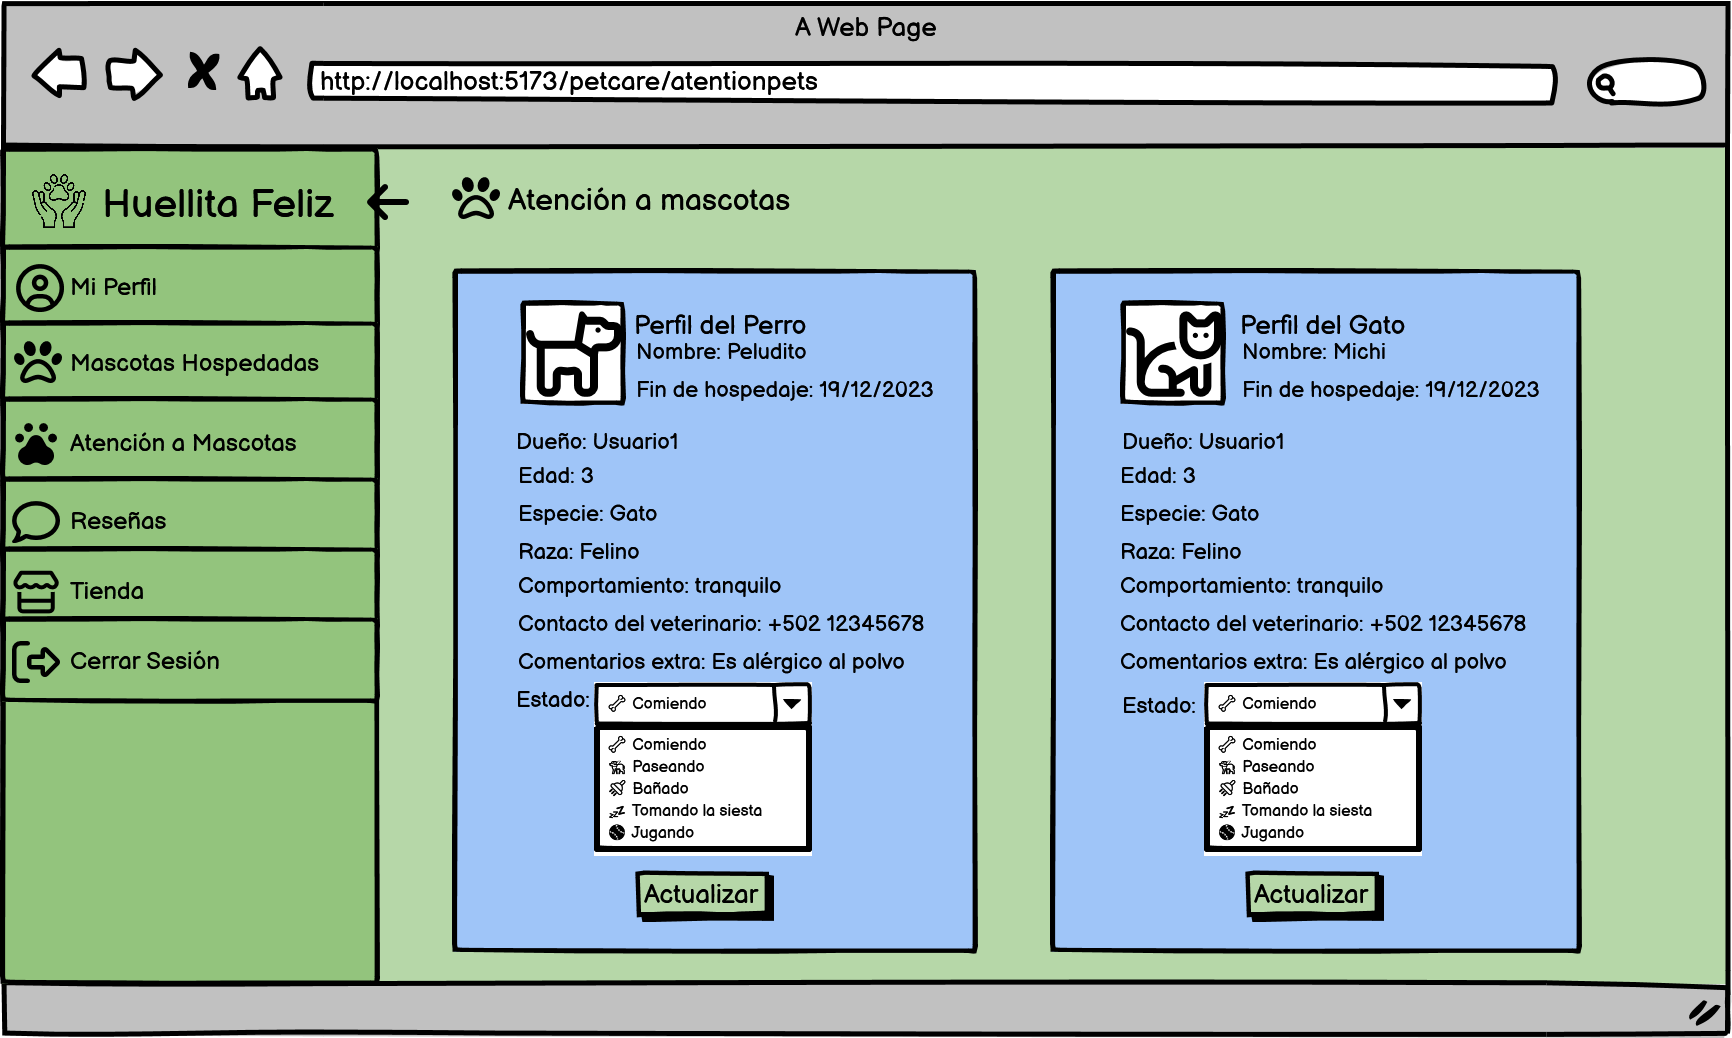
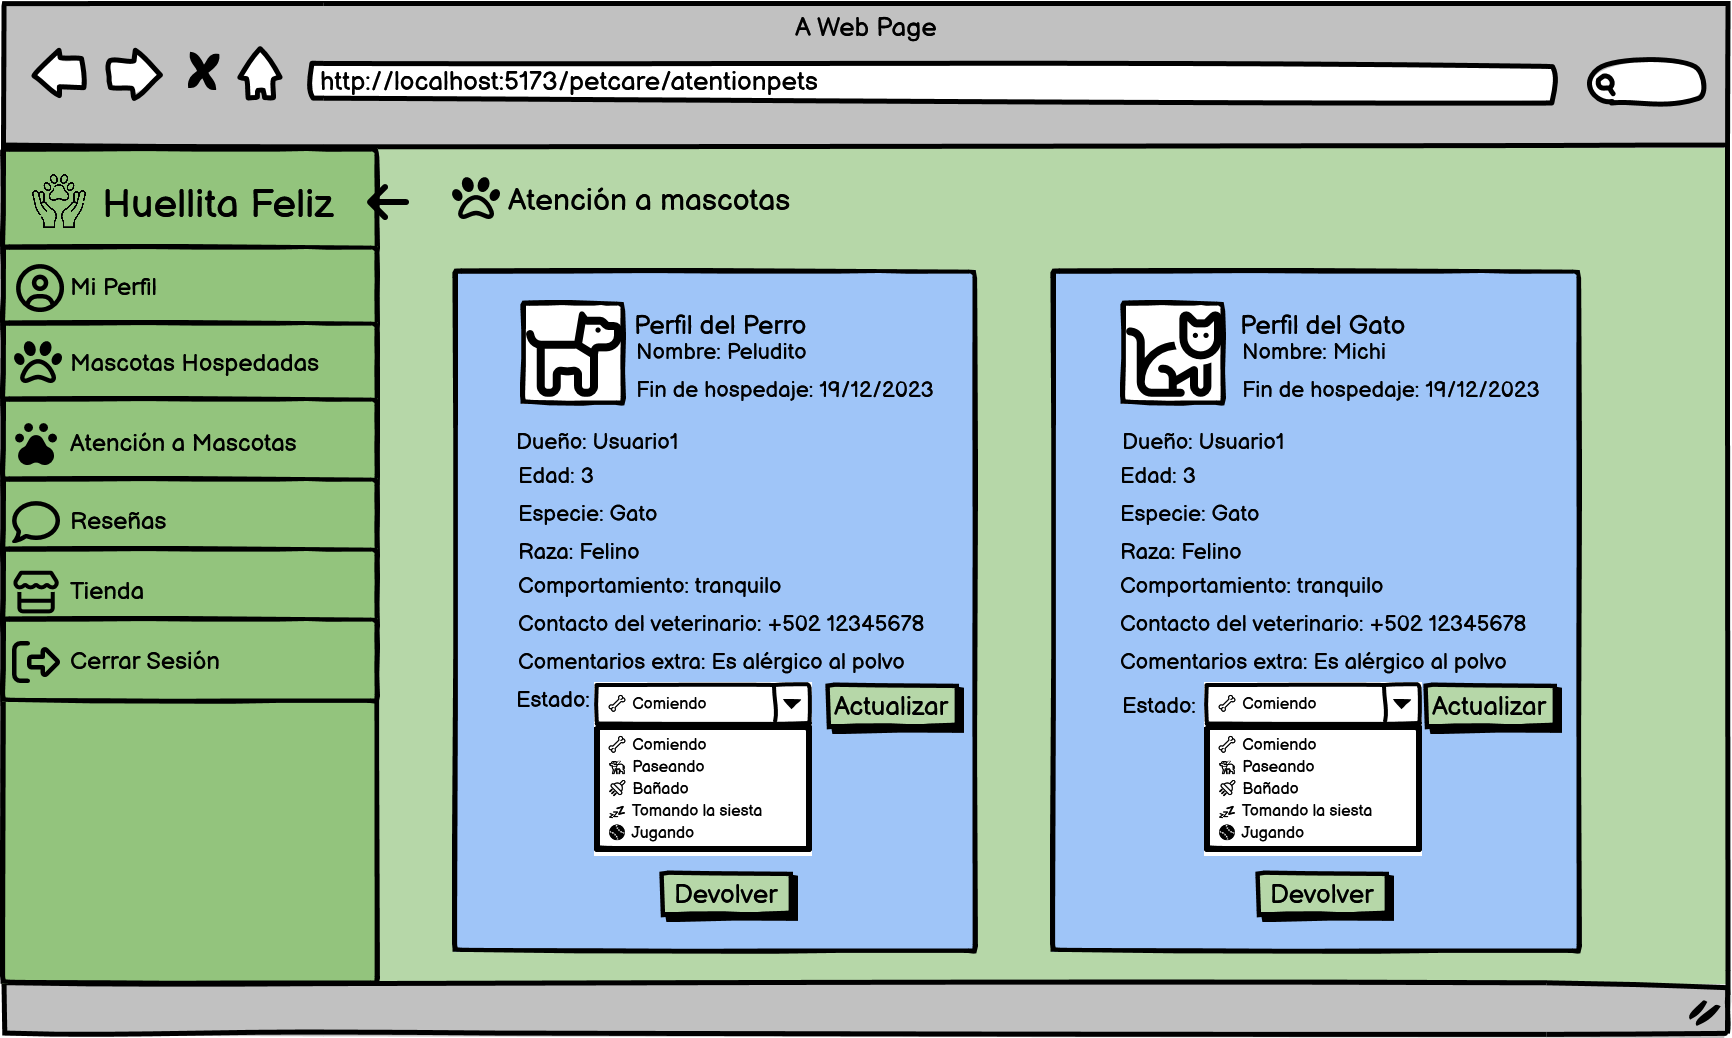
Fin Atender Mascota Fase 1

diff --git a/Frontend/src/pages/AtenderMascota/AtenderMascota.jsx b/Frontend/src/pages/AtenderMascota/AtenderMascota.jsx
@@ -1,16 +1,227 @@
-import React from 'react';
+import React, { useEffect, useState } from 'react';
+import toast, { Toaster } from "react-hot-toast";
+import { FaBirthdayCake, FaCat, FaDog } from "react-icons/fa";
+import { FaUserDoctor } from "react-icons/fa6";
+import { FiMessageCircle } from "react-icons/fi";
+import { RiEmotionHappyLine } from "react-icons/ri";
 import { SiDatadog } from "react-icons/si";
+import { useNavigate } from 'react-router-dom';
+import Service from '../../Service/Service';
 import SidebarCuidador from '../../components/Sidebar/SidebarCuidador';
+import { useUser } from "../../userCtx/User";
 const AtenderMascota = () => {
+    const [mascotas, setMascotas] = useState([]);
+    const { logged, setLogged } = useUser();
+    const [estado, setEstado] = useState("🦴 Comiendo");
+    const navigate = useNavigate();
+    useEffect(() => {
+        if(!logged){
+            navigate("/")
+        }
+        const user = JSON.parse(localStorage.getItem("data_user"));
+        Service.getPetsAttended(user.id)
+        .then((res) => {
+            console.log(res.data.data);
+            setMascotas(res.data.data);
+        })
+        .catch((err) => {
+            console.log(err);
+        });
+    }, []);
+
+    const handleSelect = (e) => {
+        setEstado(e.target.value);
+    }
+
+    const handleCambiarEstado = (id) => {
+        const data = {
+            id_pet: id,
+            estado: estado
+        }
+        console.log(data);
+        Service.updateStatus(data)
+        .then((res) => {
+            console.log(res.data);
+            window.location.reload();
+        })
+        .catch((err) => {
+            console.log(err);
+        });
+    }
+
+    const handleProximamente = () => {
+        toast("Proximamente obtendrás esta funcionalidad!", {
+            icon: '😅',
+            position: "bottom-right",
+            autoClose: 5000,
+            hideProgressBar: false,
+            closeOnClick: true,
+            pauseOnHover: true,
+            draggable: true,
+        });
+    }
+
     return (
         <div className="flex bg-gradient-to-tr bg-verde3/70">
+            <Toaster />
             <SidebarCuidador/>
             <div className="p-7 text-2xl font-semibold flex-1 h-screen overflow-y-scroll scrollbar-hide  border-l-2 border-white">
                 <div className="pb-4">
                     <h1 className="text-black text-3xl">
                     <SiDatadog className="text-4xl inline-block mr-2" />
-                    Atender Mascota
+                    Atención a Mascotas
                     </h1>
+                </div>
+                <div className="grid grid-cols-2 h-screen">
+                    {mascotas.map((mascota) => (
+                    mascota.especie.toLowerCase() === "perro"?(<div className="col-span-1 p-8">
+                        <div className="border-2 p-4 h-full bg-azul4 rounded-xl shadow-lg">
+                            <div class="flex flex-col items-center pb-10">
+                                <img class="w-24 h-24 mb-3" src="https://i.pinimg.com/originals/72/ef/b6/72efb6fe3a22146a7b2d26aff93cc55a.png" alt="Dog image"/>
+                                <h5 class="mb-1 text-2xl font-medium text-gray-900 dark:text-white">{mascota.nombre}</h5>
+                                <span class="text-lg text-black dark:text-black"><span className='font-bold'>Fin de Hospedaje: </span>{mascota.fecha_devolucion}</span>
+                            </div>
+                            <div>
+                                <div class="p-4 md:p-5">
+                                    <ol class="relative border-s border-verde1  ms-3.5 mb-4 md:mb-5">                  
+                                        <li class="mb-10 ms-8">            
+                                            <span class="absolute flex items-center justify-center w-6 h-6 bg-gray-100 rounded-full -start-3.5 ring-8 ring-verde1 dark:ring-verde3 dark:bg-verde1">
+                                                <FaBirthdayCake class="w-2.5 h-2.5 text-verde3 "/>
+                                            </span>
+                                            <h3 class="flex items-start mb-1 text-lg font-semibold text-gray-900 dark:text-white">Edad:&nbsp; <span className='font-normal'>{mascota.edad}</span></h3>
+                                        </li>
+                                        <li class="mb-10 ms-8">            
+                                            <span class="absolute flex items-center justify-center w-6 h-6 bg-gray-100 rounded-full -start-3.5 ring-8 ring-verde1 dark:ring-verde3 dark:bg-verde1">
+                                                <FaDog class="w-3.5 h-3.5 text-verde3 "/>
+                                            </span>
+                                            <h3 class="flex items-start mb-1 text-lg font-semibold text-gray-900 dark:text-white">Raza:&nbsp; <span className='font-normal'>{mascota.especie}</span></h3>
+                                        </li>
+                                        <li class="mb-10 ms-8">            
+                                            <span class="absolute flex items-center justify-center w-6 h-6 bg-gray-100 rounded-full -start-3.5 ring-8 ring-verde1 dark:ring-verde3 dark:bg-verde1">
+                                                <RiEmotionHappyLine class="w-3.5 h-3.5 text-verde3 "/>
+                                            </span>
+                                            <h3 class="flex items-start mb-1 text-lg font-semibold text-gray-900 dark:text-white">Comportamiento:&nbsp; <span className='font-normal'>{mascota.comportamiento}</span></h3>
+                                        </li>
+                                        <li class="mb-10 ms-8">            
+                                            <span class="absolute flex items-center justify-center w-6 h-6 bg-gray-100 rounded-full -start-3.5 ring-8 ring-verde1 dark:ring-verde3 dark:bg-verde1">
+                                                <FaUserDoctor class="w-3.5 h-3.5 text-verde3 "/>
+                                            </span>
+                                            <h3 class="flex items-start mb-1 text-lg font-semibold text-gray-900 dark:text-white">Contacto del Veterinario:&nbsp; <span className='font-normal'>{mascota.contacto_veterinario}</span></h3>
+                                        </li>
+                                        <li class="mb-10 ms-8">
+                                            <span class="absolute flex items-center justify-center w-6 h-6 bg-gray-100 rounded-full -start-3.5 ring-8 ring-verde1 dark:ring-verde3 dark:bg-verde1">
+                                            <FiMessageCircle class="w-3.5 h-3.5 text-verde3 "/>
+                                            </span>
+                                            <h3 class="mb-1 text-lg font-semibold text-gray-900 dark:text-white">Comentarios extra:</h3>
+                                            <p class="block mb-3 text-base font-normal leading-none text-white">{mascota.comentarios_extra}</p>
+                                        </li>
+                                        <li class="mb-10 ms-8">
+                                            <span class="absolute flex items-center justify-center w-6 h-6 bg-gray-100 rounded-full -start-3.5 ring-8 ring-verde1 dark:ring-verde3 dark:bg-verde1">
+                                                <svg class="w-2.5 h-2.5 text-gray-500 dark:text-gray-400" aria-hidden="true" xmlns="http://www.w3.org/2000/svg" fill="none" viewBox="0 0 20 20"><path fill="currentColor" d="M6 1a1 1 0 0 0-2 0h2ZM4 4a1 1 0 0 0 2 0H4Zm7-3a1 1 0 1 0-2 0h2ZM9 4a1 1 0 1 0 2 0H9Zm7-3a1 1 0 1 0-2 0h2Zm-2 3a1 1 0 1 0 2 0h-2ZM1 6a1 1 0 0 0 0 2V6Zm18 2a1 1 0 1 0 0-2v2ZM5 11v-1H4v1h1Zm0 .01H4v1h1v-1Zm.01 0v1h1v-1h-1Zm0-.01h1v-1h-1v1ZM10 11v-1H9v1h1Zm0 .01H9v1h1v-1Zm.01 0v1h1v-1h-1Zm0-.01h1v-1h-1v1ZM10 15v-1H9v1h1Zm0 .01H9v1h1v-1Zm.01 0v1h1v-1h-1Zm0-.01h1v-1h-1v1ZM15 15v-1h-1v1h1Zm0 .01h-1v1h1v-1Zm.01 0v1h1v-1h-1Zm0-.01h1v-1h-1v1ZM15 11v-1h-1v1h1Zm0 .01h-1v1h1v-1Zm.01 0v1h1v-1h-1Zm0-.01h1v-1h-1v1ZM5 15v-1H4v1h1Zm0 .01H4v1h1v-1Zm.01 0v1h1v-1h-1Zm0-.01h1v-1h-1v1ZM2 4h16V2H2v2Zm16 0h2a2 2 0 0 0-2-2v2Zm0 0v14h2V4h-2Zm0 14v2a2 2 0 0 0 2-2h-2Zm0 0H2v2h16v-2ZM2 18H0a2 2 0 0 0 2 2v-2Zm0 0V4H0v14h2ZM2 4V2a2 2 0 0 0-2 2h2Zm2-3v3h2V1H4Zm5 0v3h2V1H9Zm5 0v3h2V1h-2ZM1 8h18V6H1v2Zm3 3v.01h2V11H4Zm1 1.01h.01v-2H5v2Zm1.01-1V11h-2v.01h2Zm-1-1.01H5v2h.01v-2ZM9 11v.01h2V11H9Zm1 1.01h.01v-2H10v2Zm1.01-1V11h-2v.01h2Zm-1-1.01H10v2h.01v-2ZM9 15v.01h2V15H9Zm1 1.01h.01v-2H10v2Zm1.01-1V15h-2v.01h2Zm-1-1.01H10v2h.01v-2ZM14 15v.01h2V15h-2Zm1 1.01h.01v-2H15v2Zm1.01-1V15h-2v.01h2Zm-1-1.01H15v2h.01v-2ZM14 11v.01h2V11h-2Zm1 1.01h.01v-2H15v2Zm1.01-1V11h-2v.01h2Zm-1-1.01H15v2h.01v-2ZM4 15v.01h2V15H4Zm1 1.01h.01v-2H5v2Zm1.01-1V15h-2v.01h2Zm-1-1.01H5v2h.01v-2Z"/></svg>
+                                            </span>
+                                            <h3 class="mb-1 text-lg font-semibold text-gray-900 dark:text-white">Estado de la mascota:&nbsp; <span className={mascota.estado?'font-normal':'hidden'}>{mascota.estado}</span></h3>
+                                            <div class="flex items-center">
+                                                <form class="max-w-sm mb-2 mr-2">
+                                                    <select id="countries" class="bg-white border border-gray-300 text-black text-sm rounded-lg focus:ring-verde3 focus:border-verde3 block w-full p-2.5 " onChange={handleSelect}>
+                                                        <option value="🦴 Comiendo">🦴 Comiendo</option>
+                                                        <option value="🦮 Paseando">🦮 Paseando</option>
+                                                        <option value="🚿 Bañado">🚿 Bañado</option>
+                                                        <option value="💤 Tomando la siesta">💤 Tomando la siesta</option>
+                                                        <option value="🥎 Jugando">🥎 Jugando</option>
+                                                    </select>
+                                                </form>
+                                                <button type="button" class="inline-flex items-center py-2 px-3 text-sm font-medium text-white focus:outline-none bg-verde3 rounded-lg border border-verde5 hover:bg-verde5 hover:text-white " onClick={() => handleCambiarEstado(mascota._id)}>
+                                                    Actualizar Estado
+                                                </button>
+                                            </div>
+                                        </li>
+                                    </ol>
+                                    <div>
+                                        {/*<h2 className='flex items-center justify-center mb-2 text-white'>Llegó el día del fin del hospedaje!</h2>
+                                        <p className='flex items-center justify-center mb-2 text-white text-base font-normal'>Tienes que devolver a la mascota, pasada la fecha se hará automáticamente</p>*/}
+                                        <button class="text-white inline-flex w-full justify-center bg-verde6 hover:bg-verde5 focus:ring-4 focus:outline-none focus:ring-blue-300 font-medium rounded-lg text-sm px-5 py-2.5 text-center" onClick={handleProximamente}>
+                                        Devolver Mascota
+                                        </button>
+                                    </div>
+                                </div>
+                            </div>
+                        </div>
+                    </div>)
+                    :
+                    (<div className="col-span-1 p-8">
+                        <div className="border-2 p-4 h-full bg-azul4 rounded-xl shadow-lg">
+                            <div class="flex flex-col items-center pb-10">
+                                <img class="w-24 h-24 mb-3" src="https://i.pinimg.com/originals/b0/8a/66/b08a66bd6a5d35b3d9a1bc11ebbcca83.png" alt="Cat image"/>
+                                <h5 class="mb-1 text-2xl font-medium text-gray-900 dark:text-white">{mascota.nombre}</h5>
+                                <span class="text-lg text-black dark:text-black"><span className='font-bold'>Fin de Hospedaje: </span>{mascota.fecha_devolucion}</span>
+                            </div>
+                            <div>
+                                <div class="p-4 md:p-5">
+                                    <ol class="relative border-s border-verde1  ms-3.5 mb-4 md:mb-5">                  
+                                        <li class="mb-10 ms-8">            
+                                            <span class="absolute flex items-center justify-center w-6 h-6 bg-gray-100 rounded-full -start-3.5 ring-8 ring-verde1 dark:ring-verde3 dark:bg-verde1">
+                                                <FaBirthdayCake class="w-2.5 h-2.5 text-verde3 "/>
+                                            </span>
+                                            <h3 class="flex items-start mb-1 text-lg font-semibold text-gray-900 dark:text-white">Edad:&nbsp; <span className='font-normal'>{mascota.edad}</span></h3>
+                                        </li>
+                                        <li class="mb-10 ms-8">            
+                                            <span class="absolute flex items-center justify-center w-6 h-6 bg-gray-100 rounded-full -start-3.5 ring-8 ring-verde1 dark:ring-verde3 dark:bg-verde1">
+                                                <FaCat class="w-3.5 h-3.5 text-verde3 "/>
+                                            </span>
+                                            <h3 class="flex items-start mb-1 text-lg font-semibold text-gray-900 dark:text-white">Raza:&nbsp; <span className='font-normal'>{mascota.raza}</span></h3>
+                                        </li>
+                                        <li class="mb-10 ms-8">            
+                                            <span class="absolute flex items-center justify-center w-6 h-6 bg-gray-100 rounded-full -start-3.5 ring-8 ring-verde1 dark:ring-verde3 dark:bg-verde1">
+                                                <RiEmotionHappyLine class="w-3.5 h-3.5 text-verde3 "/>
+                                            </span>
+                                            <h3 class="flex items-start mb-1 text-lg font-semibold text-gray-900 dark:text-white">Comportamiento:&nbsp; <span className='font-normal'>{mascota.comportamiento}</span></h3>
+                                        </li>
+                                        <li class="mb-10 ms-8">            
+                                            <span class="absolute flex items-center justify-center w-6 h-6 bg-gray-100 rounded-full -start-3.5 ring-8 ring-verde1 dark:ring-verde3 dark:bg-verde1">
+                                                <FaUserDoctor class="w-3.5 h-3.5 text-verde3 "/>
+                                            </span>
+                                            <h3 class="flex items-start mb-1 text-lg font-semibold text-gray-900 dark:text-white">Contacto del Veterinario:&nbsp; <span className='font-normal'>{mascota.contacto_veterinario}</span></h3>
+                                        </li>
+                                        <li class="mb-10 ms-8">
+                                            <span class="absolute flex items-center justify-center w-6 h-6 bg-gray-100 rounded-full -start-3.5 ring-8 ring-verde1 dark:ring-verde3 dark:bg-verde1">
+                                            <FiMessageCircle class="w-3.5 h-3.5 text-verde3 "/>
+                                            </span>
+                                            <h3 class="mb-1 text-lg font-semibold text-gray-900 dark:text-white">Comentarios extra:</h3>
+                                            <p class="block mb-3 text-base font-normal leading-none text-white">{mascota.comentarios_extra}</p>
+                                        </li>
+                                        <li class="mb-10 ms-8">
+                                            <span class="absolute flex items-center justify-center w-6 h-6 bg-gray-100 rounded-full -start-3.5 ring-8 ring-verde1 dark:ring-verde3 dark:bg-verde1">
+                                                <svg class="w-2.5 h-2.5 text-gray-500 dark:text-gray-400" aria-hidden="true" xmlns="http://www.w3.org/2000/svg" fill="none" viewBox="0 0 20 20"><path fill="currentColor" d="M6 1a1 1 0 0 0-2 0h2ZM4 4a1 1 0 0 0 2 0H4Zm7-3a1 1 0 1 0-2 0h2ZM9 4a1 1 0 1 0 2 0H9Zm7-3a1 1 0 1 0-2 0h2Zm-2 3a1 1 0 1 0 2 0h-2ZM1 6a1 1 0 0 0 0 2V6Zm18 2a1 1 0 1 0 0-2v2ZM5 11v-1H4v1h1Zm0 .01H4v1h1v-1Zm.01 0v1h1v-1h-1Zm0-.01h1v-1h-1v1ZM10 11v-1H9v1h1Zm0 .01H9v1h1v-1Zm.01 0v1h1v-1h-1Zm0-.01h1v-1h-1v1ZM10 15v-1H9v1h1Zm0 .01H9v1h1v-1Zm.01 0v1h1v-1h-1Zm0-.01h1v-1h-1v1ZM15 15v-1h-1v1h1Zm0 .01h-1v1h1v-1Zm.01 0v1h1v-1h-1Zm0-.01h1v-1h-1v1ZM15 11v-1h-1v1h1Zm0 .01h-1v1h1v-1Zm.01 0v1h1v-1h-1Zm0-.01h1v-1h-1v1ZM5 15v-1H4v1h1Zm0 .01H4v1h1v-1Zm.01 0v1h1v-1h-1Zm0-.01h1v-1h-1v1ZM2 4h16V2H2v2Zm16 0h2a2 2 0 0 0-2-2v2Zm0 0v14h2V4h-2Zm0 14v2a2 2 0 0 0 2-2h-2Zm0 0H2v2h16v-2ZM2 18H0a2 2 0 0 0 2 2v-2Zm0 0V4H0v14h2ZM2 4V2a2 2 0 0 0-2 2h2Zm2-3v3h2V1H4Zm5 0v3h2V1H9Zm5 0v3h2V1h-2ZM1 8h18V6H1v2Zm3 3v.01h2V11H4Zm1 1.01h.01v-2H5v2Zm1.01-1V11h-2v.01h2Zm-1-1.01H5v2h.01v-2ZM9 11v.01h2V11H9Zm1 1.01h.01v-2H10v2Zm1.01-1V11h-2v.01h2Zm-1-1.01H10v2h.01v-2ZM9 15v.01h2V15H9Zm1 1.01h.01v-2H10v2Zm1.01-1V15h-2v.01h2Zm-1-1.01H10v2h.01v-2ZM14 15v.01h2V15h-2Zm1 1.01h.01v-2H15v2Zm1.01-1V15h-2v.01h2Zm-1-1.01H15v2h.01v-2ZM14 11v.01h2V11h-2Zm1 1.01h.01v-2H15v2Zm1.01-1V11h-2v.01h2Zm-1-1.01H15v2h.01v-2ZM4 15v.01h2V15H4Zm1 1.01h.01v-2H5v2Zm1.01-1V15h-2v.01h2Zm-1-1.01H5v2h.01v-2Z"/></svg>
+                                            </span>
+                                            <h3 class="mb-1 text-lg font-semibold text-gray-900 dark:text-white">Estado de la mascota: <span className={mascota.estado?'font-normal':'hidden'}>{mascota.estado}</span></h3>
+                                            <div class="flex items-center">
+                                                <form class="max-w-sm mb-2 mr-2">
+                                                    <select id="countries" class="bg-white border border-gray-300 text-black text-sm rounded-lg focus:ring-verde3 focus:border-verde3 block w-full p-2.5 " onChange={handleSelect}>
+                                                        <option value="🦴 Comiendo">🦴 Comiendo</option>
+                                                        <option value="🦮 Paseando">🦮 Paseando</option>
+                                                        <option value="🚿 Bañado">🚿 Bañado</option>
+                                                        <option value="💤 Tomando la siesta">💤 Tomando la siesta</option>
+                                                        <option value="🥎 Jugando">🥎 Jugando</option>
+                                                    </select>
+                                                </form>
+                                                <button type="button" class="inline-flex items-center py-2 px-3 text-sm font-medium text-white focus:outline-none bg-verde3 rounded-lg border border-verde5 hover:bg-verde5 hover:text-white " onClick={() => handleCambiarEstado(mascota._id)}>
+                                                    Actualizar Estado
+                                                </button>
+                                            </div>
+                                        </li>
+                                    </ol>
+                                    <div>
+                                    {/*<h2 className='flex items-center justify-center mb-2 text-white'>Llegó el día del fin del hospedaje!</h2>
+                                        <p className='flex items-center justify-center mb-2 text-white text-base font-normal'>Tienes que devolver a la mascota, pasada la fecha se hará automáticamente</p>*/}
+                                        <button class="text-white inline-flex w-full justify-center bg-verde6 hover:bg-verde5 focus:ring-4 focus:outline-none focus:ring-blue-300 font-medium rounded-lg text-sm px-5 py-2.5 text-center" onClick={handleProximamente}>
+                                        Devolver Mascota
+                                        </button>
+                                    </div>
+                                </div>
+                            </div>
+                        </div>
+                    </div>)
+                    ))}
                 </div>
             </div>
             

diff --git a/Frontend/src/Service/Connection/back_communication.js b/Frontend/src/Service/Connection/back_communication.js
@@ -96,3 +96,13 @@ export const getPetsAttended = async (idCuidador) => {
     const response = await instance.get(`pet/keeper/${idCuidador}`);
     return response;
 }
+
+//Actualizar estado de la mascota
+export const updateStatus = async (data) => {
+    const response = await instance.post(`/pet/estado`, data, {
+        headers: {
+            'Content-Type': 'application/json'
+        }
+    });
+    return response;
+}
